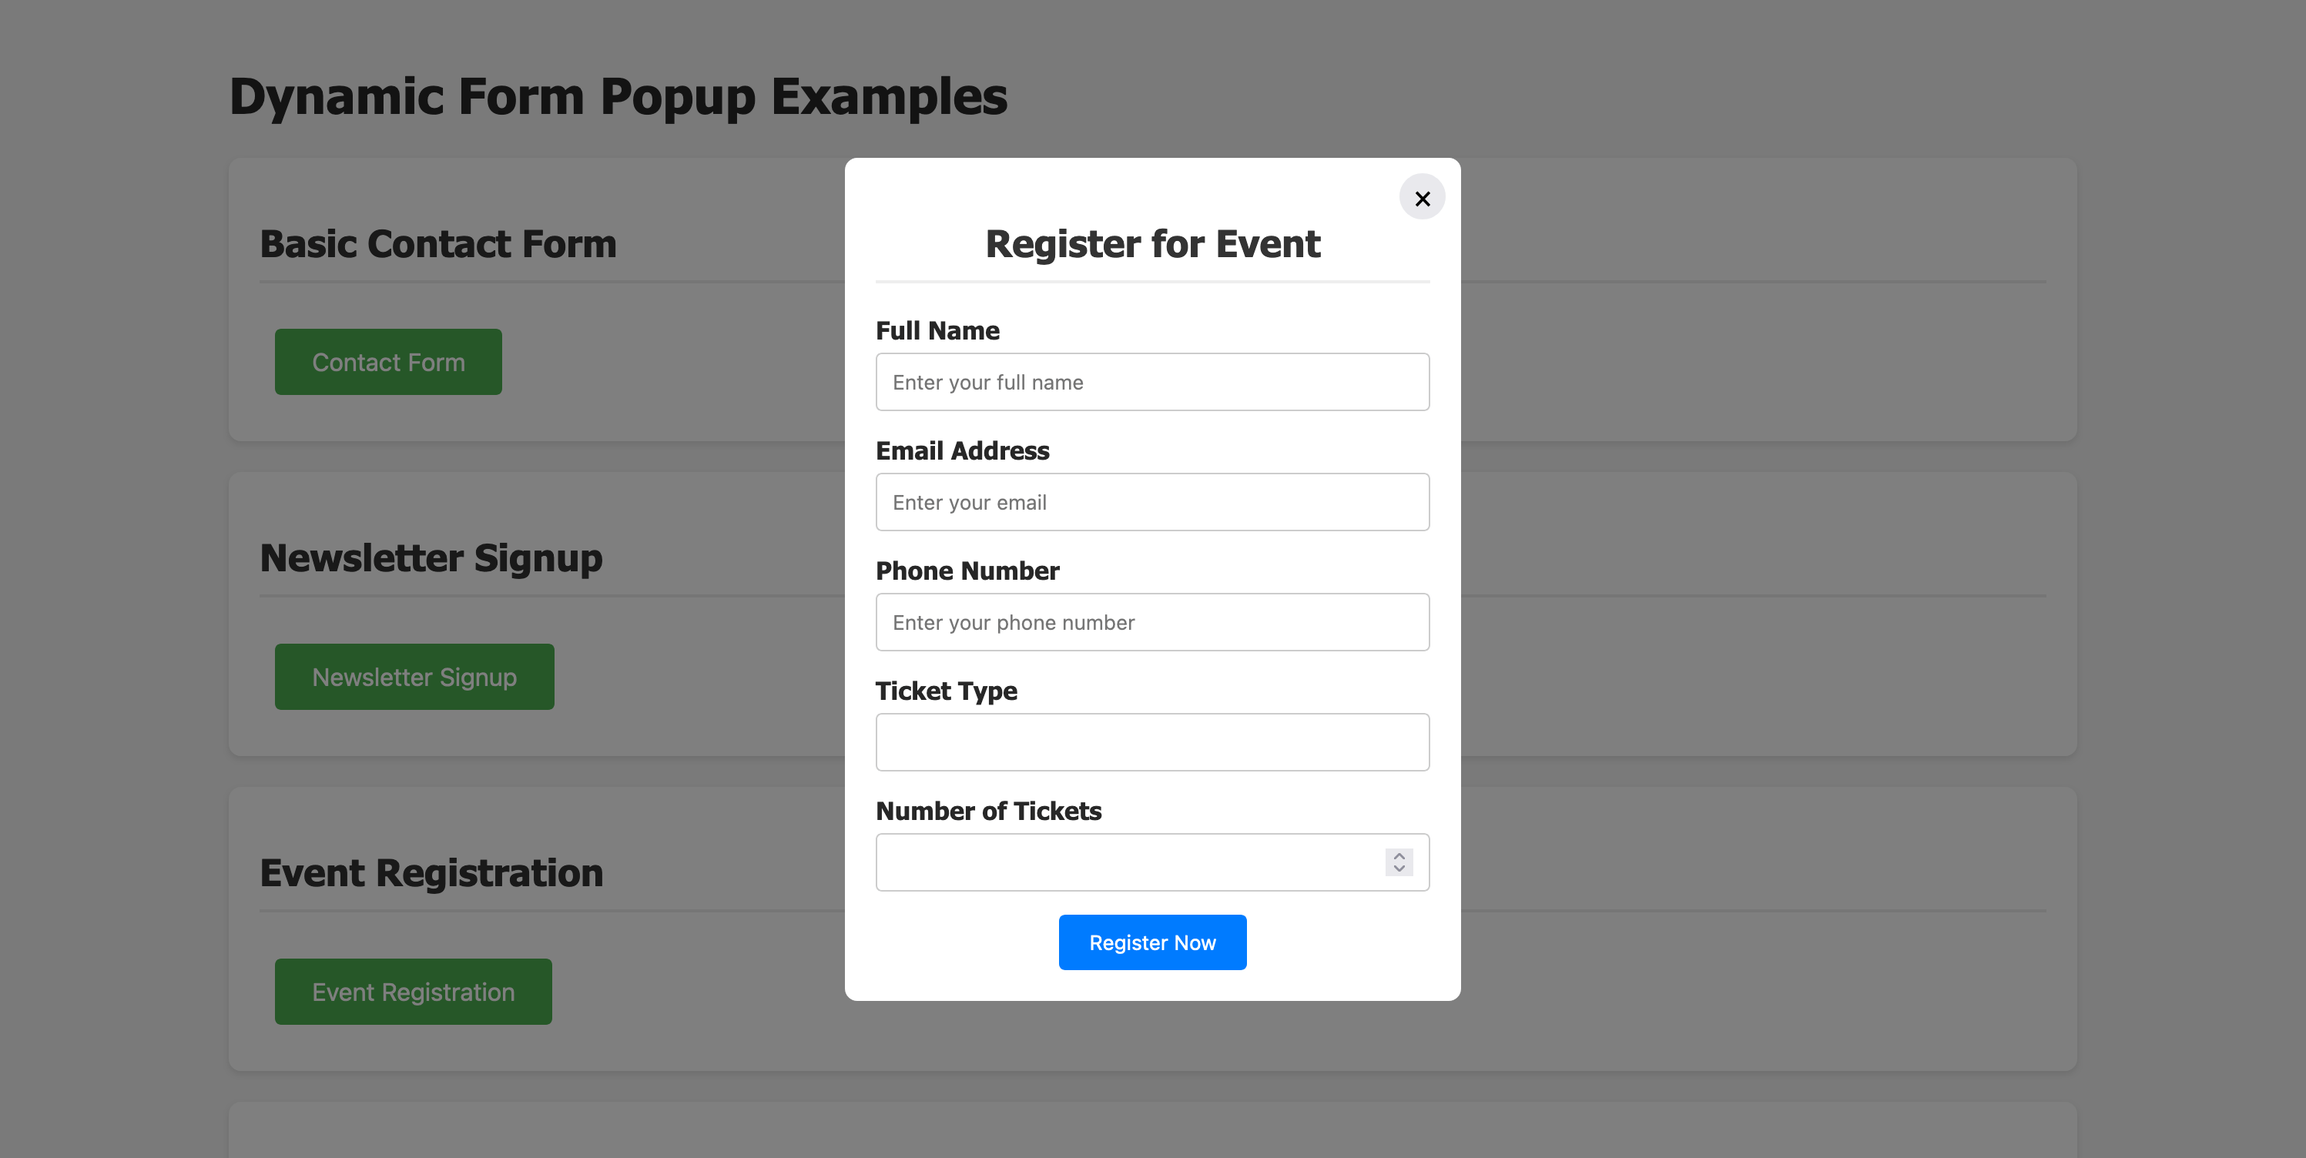
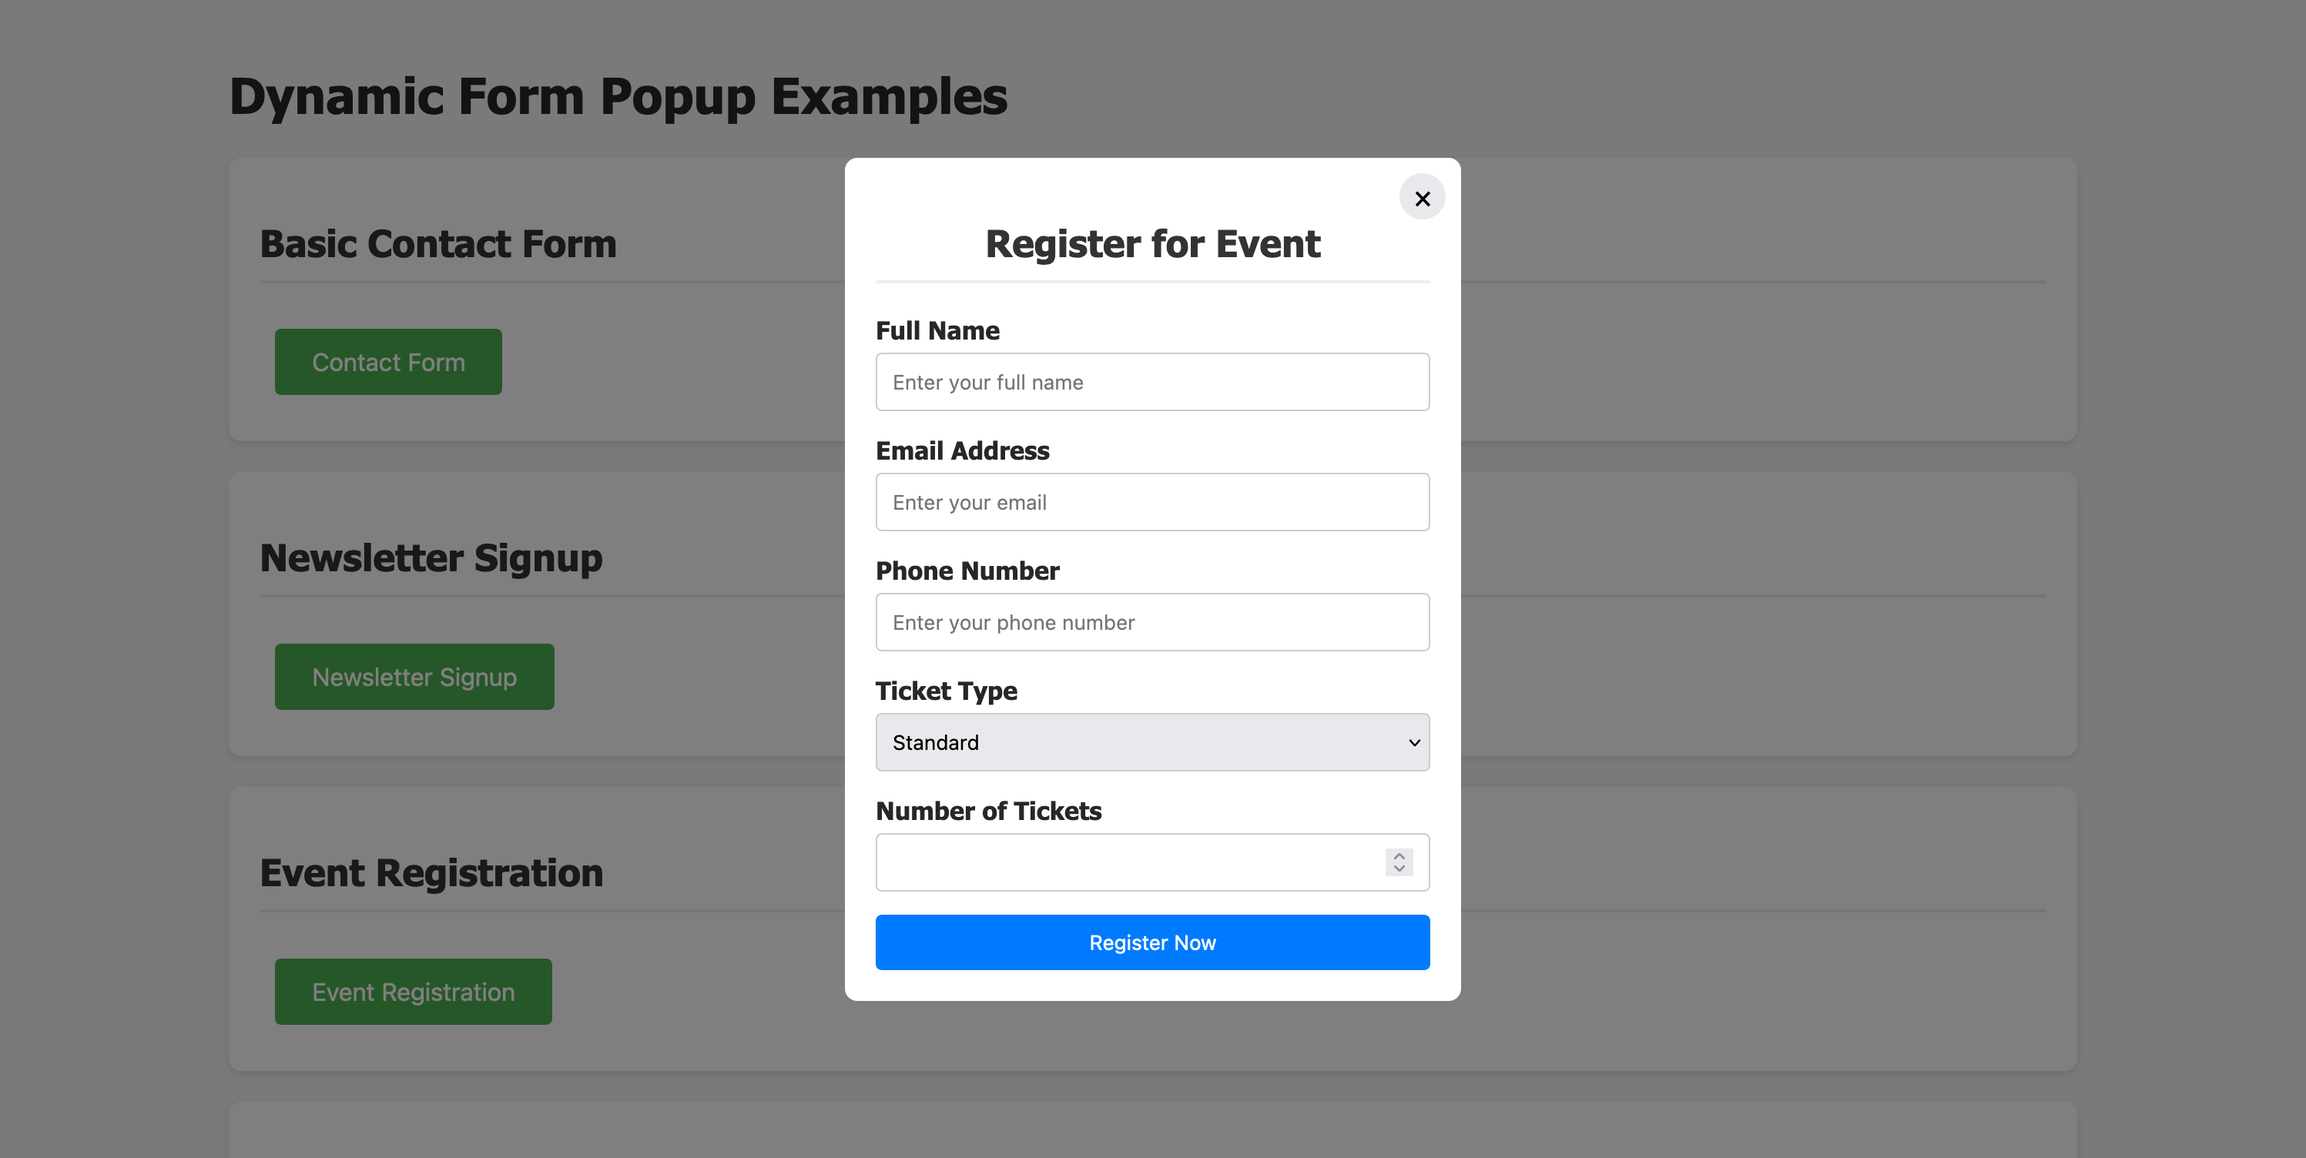
Added support for select

Changed region(s): [[0.5281, 0.7812, 0.6212, 0.8438], [0.3727, 0.7812, 0.4659, 0.8438], [0.3727, 0.625, 0.4349, 0.6562]]

diff --git a/dist/formmodal.min.js b/dist/formmodal.min.js
@@ -1,2 +1,2 @@
-(()=>{var s=(d,t)=>{let e=document.createElement(d);return t&&(e.className=t),e},m=class{constructor(t){this.options=t||{},this.modal=null,this.modalContent=null,this.closeBtn=null,this.form=null,this.confirmationMessage=null,this.isSubmitting=!1}injectCSS(){if(document.querySelector(".formModalCss"))return;let t=s("style","formModalCss");t.innerHTML="\n      .custom-modal {\n        display: none;\n        position: fixed;\n        top: 0;\n        left: 0;\n        width: 100%;\n        height: 100%;\n        background-color: rgba(0, 0, 0, 0.5);\n        z-index: 1000;\n        justify-content: center;\n        align-items: center;\n        transition: opacity 0.3s ease;\n      }\n      .custom-modal *{\n        box-sizing: border-box;\n      }\n      .custom-modal-content {\n        background-color: white;\n        padding: 20px;\n        border-radius: 8px;\n        max-width: 400px;\n        width: 80%;\n        text-align: center;\n        position: relative;\n      }\n\n      .custom-modal h2 {\n        margin-bottom: 20px;\n        font-size: 1.5rem;\n      }\n\n      .custom-modal .form-group {\n        margin-bottom: 15px;\n        text-align: left;\n      }\n\n      .custom-modal .form-group label {\n        display: block;\n        margin-bottom: 5px;\n        font-weight: bold;\n      }\n\n      .custom-modal .form-group input {\n        width: 100%;\n        padding: 10px;\n        border-radius: 4px;\n        border: 1px solid #ccc;\n      }\n\n      .custom-modal .submit-btn {\n        background-color: #007BFF;\n        color: white;\n        padding: 10px 20px;\n        border: none;\n        border-radius: 4px;\n        cursor: pointer;\n        transition: background-color 0.3s;\n        width: 100%;\n      }\n\n      .custom-modal .submit-btn:hover {\n        background-color: #0056b3;\n      }\n\n      .custom-modal .close {\n        font-size: 20px;\n        position: absolute;\n        top: 10px;\n        right: 10px;\n        cursor: pointer;\n        padding: 0;\n        border-radius: 50%;\n        height: 30px;\n        width: 30px;\n        line-height: 1;\n        border: none;\n      }\n\n      .custom-modal .confirmation-message {\n        margin-top: 20px;\n        padding: 20px;\n        background-color: #28a745;\n        color: white;\n        border-radius: 8px;\n        font-size: 1.2rem;\n        display: flex;\n        align-items: center;\n      }\n\n      .custom-modal .confirmation-message svg {\n        width: 24px;\n        height: 24px;\n        margin-right: 10px;\n      }\n\n      .custom-modal .error-message {\n        margin-top: 20px;\n        padding: 20px;\n        background-color: #dc3545;\n        color: white;\n        border-radius: 8px;\n        font-size: 1.2rem;\n      }\n\n      .honeypot {\n        position: absolute;\n        width: 0;\n        height: 0;\n        padding: 0;\n        margin: 0;\n        border: 0;\n        visibility: hidden;\n      }\n    ",document.head.appendChild(t)}open(){this.modal.style.display="flex",this.modal.style.opacity="1",this.modal.setAttribute("aria-hidden","false"),this.modalContent.setAttribute("tabindex","-1"),this.modalContent.focus()}close(){this.modal.style.opacity="0",setTimeout(()=>{this.modal.style.display="none",this.modal.setAttribute("aria-hidden","true"),this.cleanupForm()},300),this.triggerElement&&this.triggerElement.focus()}cleanupForm(){this.modal&&(this.modal.remove(),this.modal=null)}validateEmail(t){return/^[^\s@]+@[^\s@]+\.[^\s@]+$/.test(t)}validatePhone(t){return/^(\+\d{1,2}\s)?\(?\d{3}\)?[\s.-]\d{3}[\s.-]\d{4}$/.test(t)}handleSubmit(t){if(t.preventDefault(),this.isSubmitting)return;this.isSubmitting=!0;let e=this.form.querySelector(".honeypot");if(e&&e.value){this.showError("Please do not use autofill!"),this.isSubmitting=!1;return}let n=!0,r=new FormData(this.form),i={};r.forEach((o,l)=>{i[l]=o}),i.email&&!this.validateEmail(i.email)&&(n=!1,this.showError("Please enter a valid email address.")),i.phone&&!this.validatePhone(i.phone)&&(n=!1,this.showError("Please enter a valid phone number."));for(let o in i)if(this.options.fields.find(l=>l.name===o&&l.required)&&!i[o]){n=!1,this.showError("".concat(o.charAt(0).toUpperCase()+o.slice(1)," is required."));break}if(!n){this.isSubmitting=!1;return}let a=this.options.actionUrl;a?fetch(a,{method:"POST",headers:{"Content-Type":"application/json"},body:JSON.stringify(i)}).then(o=>o.json()).then(o=>{o?this.showConfirmation(o.message||"Thank you for submitting the form!"):this.showError("There was an error submitting your form. Please try again.")}).catch(o=>{this.showError("An error occurred while submitting the form. Please try again.")}).finally(()=>{this.isSubmitting=!1}):(this.showError("No action URL specified."),this.isSubmitting=!1)}showConfirmation(t){this.confirmationMessage&&this.confirmationMessage.remove(),this.form.style.display="none";let e=s("div","confirmation-message"),n='\n      <svg xmlns="http://www.w3.org/2000/svg" viewBox="0 0 24 24" fill="none" stroke="currentColor" stroke-width="2" stroke-linecap="round" stroke-linejoin="round">\n        <path d="M20 6L9 17l-5-5"></path>\n      </svg>\n    ';e.innerHTML="".concat(n," ").concat(t),this.modalContent.appendChild(e),setTimeout(()=>{this.close()},1e4)}showError(t){this.confirmationMessage&&this.confirmationMessage.remove();let e=s("div","error-message");e.textContent=t,this.modalContent.appendChild(e),this.confirmationMessage=e}create(){this.modal=s("div","custom-modal"),this.modal.setAttribute("role","dialog"),this.modal.setAttribute("aria-labelledby","modal-title"),this.modal.setAttribute("aria-hidden","true"),this.modalContent=s("div","custom-modal-content"),this.closeBtn=s("button","close"),this.closeBtn.setAttribute("aria-label","Close Modal"),this.closeBtn.innerHTML="&times;",this.modalContent.appendChild(this.closeBtn);let t=s("h2");t.id="modal-title",t.textContent=this.options.title||"Sign Up",this.modalContent.appendChild(t),this.form=s("form"),this.form.addEventListener("submit",this.handleSubmit.bind(this)),this.options.fields.forEach(r=>{let i=s("div","form-group"),a=s("label");a.setAttribute("for",r.name),a.textContent=r.label,i.appendChild(a);let o=s("input");o.setAttribute("type",r.type||"text"),o.setAttribute("name",r.name),o.setAttribute("placeholder",r.placeholder||""),o.required=r.required||!1,i.appendChild(o),this.form.appendChild(i)});let e=s("input","honeypot");e.setAttribute("type","text"),e.setAttribute("name","honeypot"),this.form.appendChild(e);let n=s("button","submit-btn");n.type="submit",n.textContent=this.options.submitButtonText||"Submit",this.form.appendChild(n),this.modalContent.appendChild(this.form),this.modal.appendChild(this.modalContent),document.body.appendChild(this.modal),this.closeBtn.addEventListener("click",this.close.bind(this)),this.modal.addEventListener("click",r=>{r.target===this.modal&&this.close()}),this.injectCSS()}};function h(){document.querySelectorAll("[data-form-modal]").forEach(t=>{t.addEventListener("click",function(e){e.preventDefault(),this.triggerElement=t;let n=t.getAttribute("data-title"),r=t.getAttribute("data-submit-button-text"),i=t.getAttribute("data-form-modal"),a=t.getAttribute("data-action-url"),o=JSON.parse(i),l=new m({title:n,submitButtonText:r,fields:o,actionUrl:a});l.create(),l.open()})})}document.addEventListener("DOMContentLoaded",h);})();
+(()=>{var i=(d,t)=>{let o=document.createElement(d);return t&&(o.className=t),o},m=class{constructor(t){this.options=t||{},this.modal=null,this.modalContent=null,this.closeBtn=null,this.form=null,this.confirmationMessage=null,this.isSubmitting=!1}injectCSS(){if(document.querySelector(".formModalCss"))return;let t=i("style","formModalCss");t.innerHTML="\n      .custom-modal {\n        display: none;\n        position: fixed;\n        top: 0;\n        left: 0;\n        width: 100%;\n        height: 100%;\n        background-color: rgba(0, 0, 0, 0.5);\n        z-index: 1000;\n        justify-content: center;\n        align-items: center;\n        transition: opacity 0.3s ease;\n      }\n      .custom-modal *{\n        box-sizing: border-box;\n      }\n      .custom-modal-content {\n        background-color: white;\n        padding: 20px;\n        border-radius: 8px;\n        max-width: 400px;\n        width: 80%;\n        text-align: center;\n        position: relative;\n      }\n\n      .custom-modal h2 {\n        margin-bottom: 20px;\n        font-size: 1.5rem;\n      }\n\n      .custom-modal .form-group {\n        margin-bottom: 15px;\n        text-align: left;\n      }\n\n      .custom-modal .form-group label {\n        display: block;\n        margin-bottom: 5px;\n        font-weight: bold;\n      }\n\n      .custom-modal .form-control {\n        width: 100%;\n        padding: 10px;\n        border-radius: 4px;\n        border: 1px solid #ccc;\n      }\n\n      .custom-modal .submit-btn {\n        background-color: #007BFF;\n        color: white;\n        padding: 10px 20px;\n        border: none;\n        border-radius: 4px;\n        cursor: pointer;\n        transition: background-color 0.3s;\n        width: 100%;\n      }\n\n      .custom-modal .submit-btn:hover {\n        background-color: #0056b3;\n      }\n\n      .custom-modal .close {\n        font-size: 20px;\n        position: absolute;\n        top: 10px;\n        right: 10px;\n        cursor: pointer;\n        padding: 0;\n        border-radius: 50%;\n        height: 30px;\n        width: 30px;\n        line-height: 1;\n        border: none;\n      }\n\n      .custom-modal .confirmation-message {\n        margin-top: 20px;\n        padding: 20px;\n        background-color: #28a745;\n        color: white;\n        border-radius: 8px;\n        display: flex;\n        align-items: center;\n      }\n\n      .custom-modal .confirmation-message svg {\n        width: 24px;\n        height: 24px;\n        margin-right: 10px;\n      }\n\n      .custom-modal .error-message {\n        margin-top: 20px;\n        padding: 20px;\n        background-color: #dc3545;\n        color: white;\n        border-radius: 8px;\n      }\n\n      .honeypot {\n        position: absolute;\n        width: 0;\n        height: 0;\n        padding: 0;\n        margin: 0;\n        border: 0;\n        visibility: hidden;\n      }\n    ",document.head.appendChild(t)}open(){this.modal&&(this.modal.style.display="flex",this.modal.style.opacity="1",this.modal.setAttribute("aria-hidden","false"),this.modalContent.setAttribute("tabindex","-1"),this.modalContent.focus())}close(){this.modal.style.opacity="0",this.timeout=setTimeout(this.cleanupForm.bind(this),300),this.triggerElement&&this.triggerElement.focus()}cleanupForm(){this.timeout&&clearTimeout(this.timeout),this.modal&&(this.modal.remove(),this.modal=null)}validateEmail(t){return/^[^\s@]+@[^\s@]+\.[^\s@]+$/.test(t)}validatePhone(t){return/^(\+\d{1,2}\s)?\(?\d{3}\)?[\s.-]\d{3}[\s.-]\d{4}$/.test(t)}handleSubmit(t){if(t.preventDefault(),this.isSubmitting)return;this.isSubmitting=!0;let o=this.form.querySelector(".honeypot");if(o&&o.value){this.showError("Please do not use autofill!"),this.isSubmitting=!1;return}let r=!0,s=new FormData(this.form),n={};s.forEach((e,a)=>{n[a]=e}),n.email&&!this.validateEmail(n.email)&&(r=!1,this.showError("Please enter a valid email address.")),n.phone&&!this.validatePhone(n.phone)&&(r=!1,this.showError("Please enter a valid phone number."));for(let e in n)if(this.options.fields.find(a=>a.name===e&&a.required)&&!n[e]){r=!1,this.showError("".concat(e.charAt(0).toUpperCase()+e.slice(1)," is required."));break}if(!r){this.isSubmitting=!1;return}let l=this.options.actionUrl;l?fetch(l,{method:"POST",headers:{"Content-Type":"application/json"},body:JSON.stringify(n)}).then(e=>e.json()).then(e=>{e?this.showConfirmation(e.message||"Thank you for submitting the form!"):this.showError("There was an error submitting your form. Please try again.")}).catch(e=>{this.showError("An error occurred while submitting the form. Please try again.")}).finally(()=>{this.isSubmitting=!1}):(this.showError("No action URL specified."),this.isSubmitting=!1)}showConfirmation(t){this.confirmationMessage&&this.confirmationMessage.remove(),this.form.style.display="none";let o=i("div","confirmation-message"),r='\n      <svg xmlns="http://www.w3.org/2000/svg" viewBox="0 0 24 24" fill="none" stroke="currentColor" stroke-width="2" stroke-linecap="round" stroke-linejoin="round">\n        <path d="M20 6L9 17l-5-5"></path>\n      </svg>\n    ';o.innerHTML="".concat(r," ").concat(t),this.modalContent.appendChild(o),setTimeout(this.close.bind(this),1e4)}showError(t){this.confirmationMessage&&this.confirmationMessage.remove();let o=i("div","error-message");o.textContent=t,this.modalContent.appendChild(o),this.confirmationMessage=o}create(){this.modal=i("div","custom-modal"),this.modal.setAttribute("role","dialog"),this.modal.setAttribute("aria-labelledby","modal-title"),this.modal.setAttribute("aria-hidden","true"),this.modalContent=i("div","custom-modal-content"),this.closeBtn=i("button","close"),this.closeBtn.setAttribute("aria-label","Close Modal"),this.closeBtn.innerHTML="&times;",this.modalContent.appendChild(this.closeBtn);let t=i("h2");t.id="modal-title",t.textContent=this.options.title||"Sign Up",this.modalContent.appendChild(t),this.form=i("form"),this.form.addEventListener("submit",this.handleSubmit.bind(this)),this.options.fields.forEach(s=>{let n=i("div","form-group"),l=i("label");l.setAttribute("for",s.name),l.textContent=s.label,n.appendChild(l);let e;s.type==="select"?(e=i("select","form-control"),s.options.forEach(a=>{let h=i("option");h.innerText=a,e.appendChild(h)})):(e=i("input","form-control"),e.setAttribute("type",s.type||"text"),e.setAttribute("placeholder",s.placeholder||"")),e.setAttribute("name",s.name),e.required=s.required||!1,n.appendChild(e),this.form.appendChild(n)});let o=i("input","honeypot");o.setAttribute("type","text"),o.setAttribute("name","honeypot"),this.form.appendChild(o);let r=i("button","submit-btn");r.type="submit",r.textContent=this.options.submitButtonText||"Submit",this.form.appendChild(r),this.modalContent.appendChild(this.form),this.modal.appendChild(this.modalContent),document.body.appendChild(this.modal),this.closeBtn.addEventListener("click",this.close.bind(this)),this.modal.addEventListener("click",s=>{s.target===this.modal&&this.close()}),this.injectCSS()}};function c(){document.querySelectorAll("[data-form-modal]").forEach(t=>{t.addEventListener("click",function(o){o.preventDefault(),this.triggerElement=t;let r=t.getAttribute("data-title"),s=t.getAttribute("data-submit-button-text"),n=t.getAttribute("data-form-modal"),l=t.getAttribute("data-action-url"),e=JSON.parse(n),a=new m({title:r,submitButtonText:s,fields:e,actionUrl:l});a.create(),a.open()})})}document.addEventListener("DOMContentLoaded",c);})();
 //# sourceMappingURL=formmodal.min.js.map

diff --git a/index.js b/index.js
@@ -61,7 +61,7 @@ class Modal {
         font-weight: bold;
       }
 
-      .custom-modal .form-group input {
+      .custom-modal .form-control {
         width: 100%;
         padding: 10px;
         border-radius: 4px;
@@ -103,7 +103,6 @@ class Modal {
         background-color: #28a745;
         color: white;
         border-radius: 8px;
-        font-size: 1.2rem;
         display: flex;
         align-items: center;
       }
@@ -120,7 +119,6 @@ class Modal {
         background-color: #dc3545;
         color: white;
         border-radius: 8px;
-        font-size: 1.2rem;
       }
 
       .honeypot {
@@ -137,26 +135,25 @@ class Modal {
   }
 
   open() {
-    this.modal.style.display = "flex";
-    this.modal.style.opacity = "1";
-    this.modal.setAttribute("aria-hidden", "false");
-    this.modalContent.setAttribute("tabindex", "-1");
-    this.modalContent.focus();
+    if (this.modal) {
+      this.modal.style.display = "flex";
+      this.modal.style.opacity = "1";
+      this.modal.setAttribute("aria-hidden", "false");
+      this.modalContent.setAttribute("tabindex", "-1");
+      this.modalContent.focus();
+    }
   }
 
   close() {
     this.modal.style.opacity = "0";
-    setTimeout(() => {
-      this.modal.style.display = "none";
-      this.modal.setAttribute("aria-hidden", "true");
-      this.cleanupForm();
-    }, 300);
+    this.timeout = setTimeout(this.cleanupForm.bind(this), 300);
     if (this.triggerElement) {
       this.triggerElement.focus();
     }
   }
 
   cleanupForm() {
+    if (this.timeout) clearTimeout(this.timeout);
     if (this.modal) {
       this.modal.remove();
       this.modal = null;
@@ -275,10 +272,7 @@ class Modal {
     `;
     confirmationMessage.innerHTML = `${checkMarkSvg} ${message}`;
     this.modalContent.appendChild(confirmationMessage);
-
-    setTimeout(() => {
-      this.close();
-    }, 10000);
+    setTimeout(this.close.bind(this), 10000);
   }
 
   showError(message) {
@@ -313,18 +307,27 @@ class Modal {
 
     this.options.fields.forEach((field) => {
       const formGroup = createEl("div", "form-group");
-
       const label = createEl("label");
       label.setAttribute("for", field.name);
       label.textContent = field.label;
       formGroup.appendChild(label);
 
-      const input = createEl("input");
-      input.setAttribute("type", field.type || "text");
-      input.setAttribute("name", field.name);
-      input.setAttribute("placeholder", field.placeholder || "");
-      input.required = field.required || false;
-      formGroup.appendChild(input);
+      let inputField;
+      if (field.type === "select") {
+        inputField = createEl("select", "form-control");
+        field.options.forEach((op) => {
+          const option = createEl("option");
+          option.innerText = op;
+          inputField.appendChild(option);
+        });
+      } else {
+        inputField = createEl("input", "form-control");
+        inputField.setAttribute("type", field.type || "text");
+        inputField.setAttribute("placeholder", field.placeholder || "");
+      }
+      inputField.setAttribute("name", field.name);
+      inputField.required = field.required || false;
+      formGroup.appendChild(inputField);
       this.form.appendChild(formGroup);
     });
 
